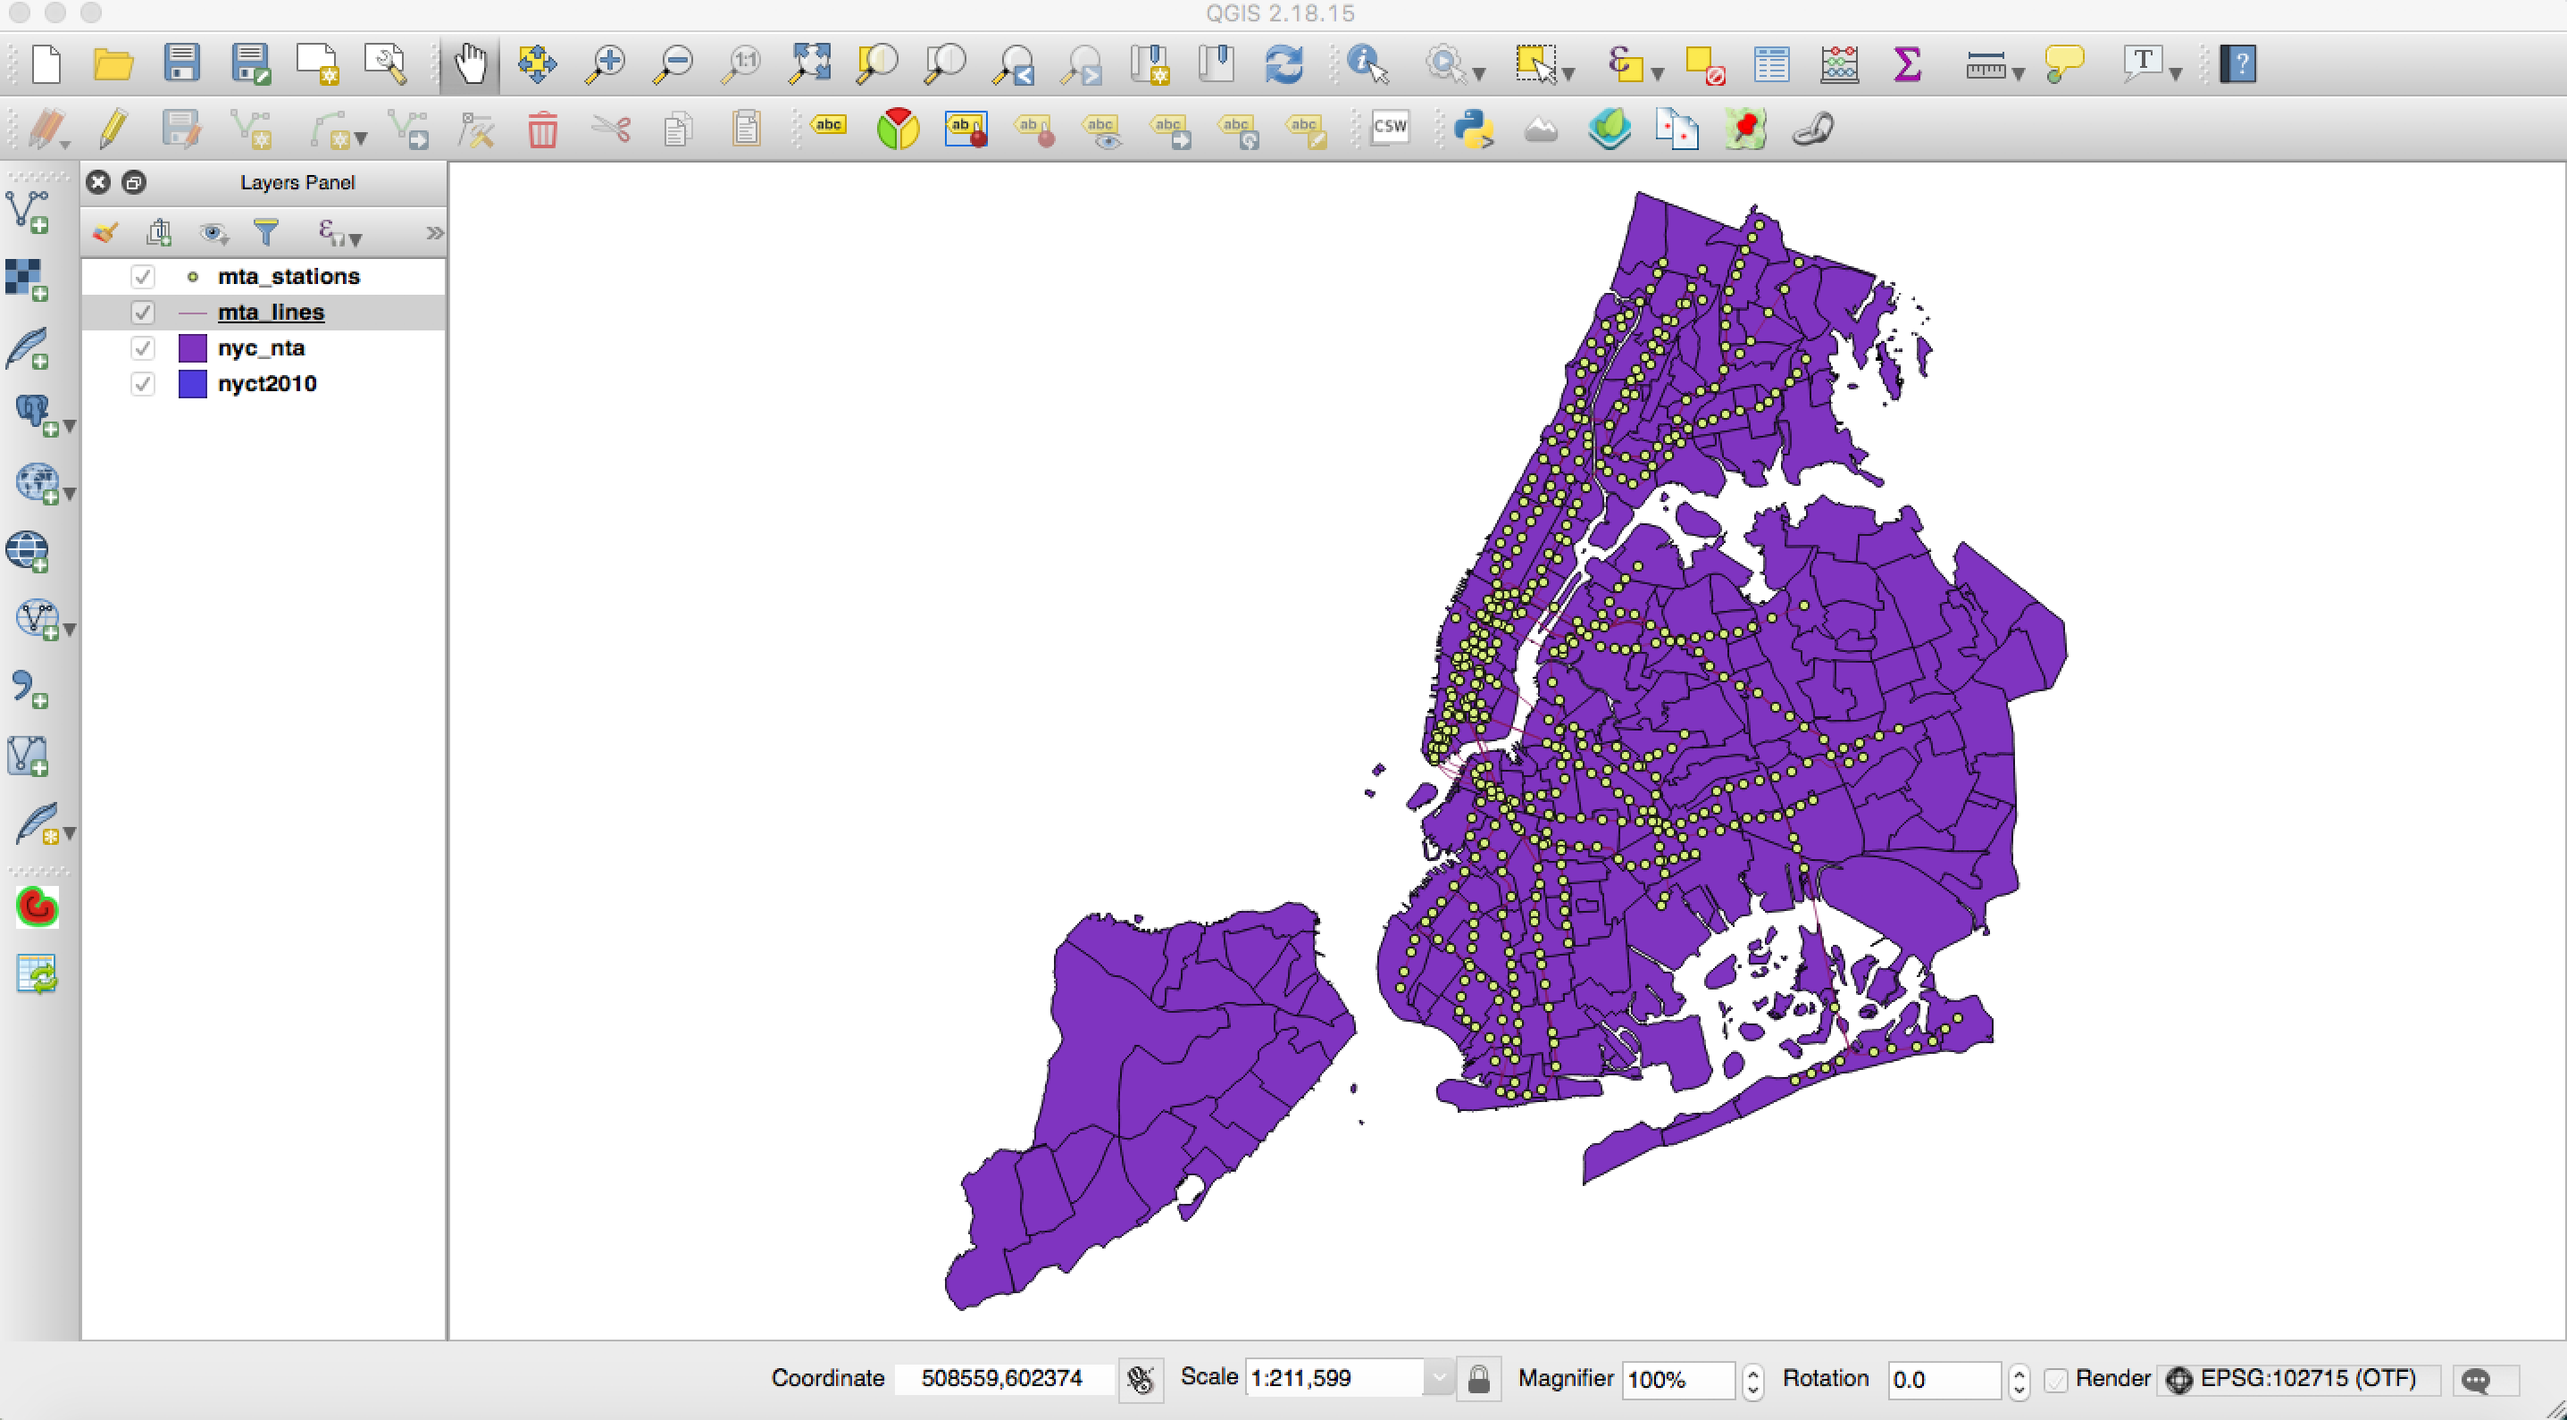
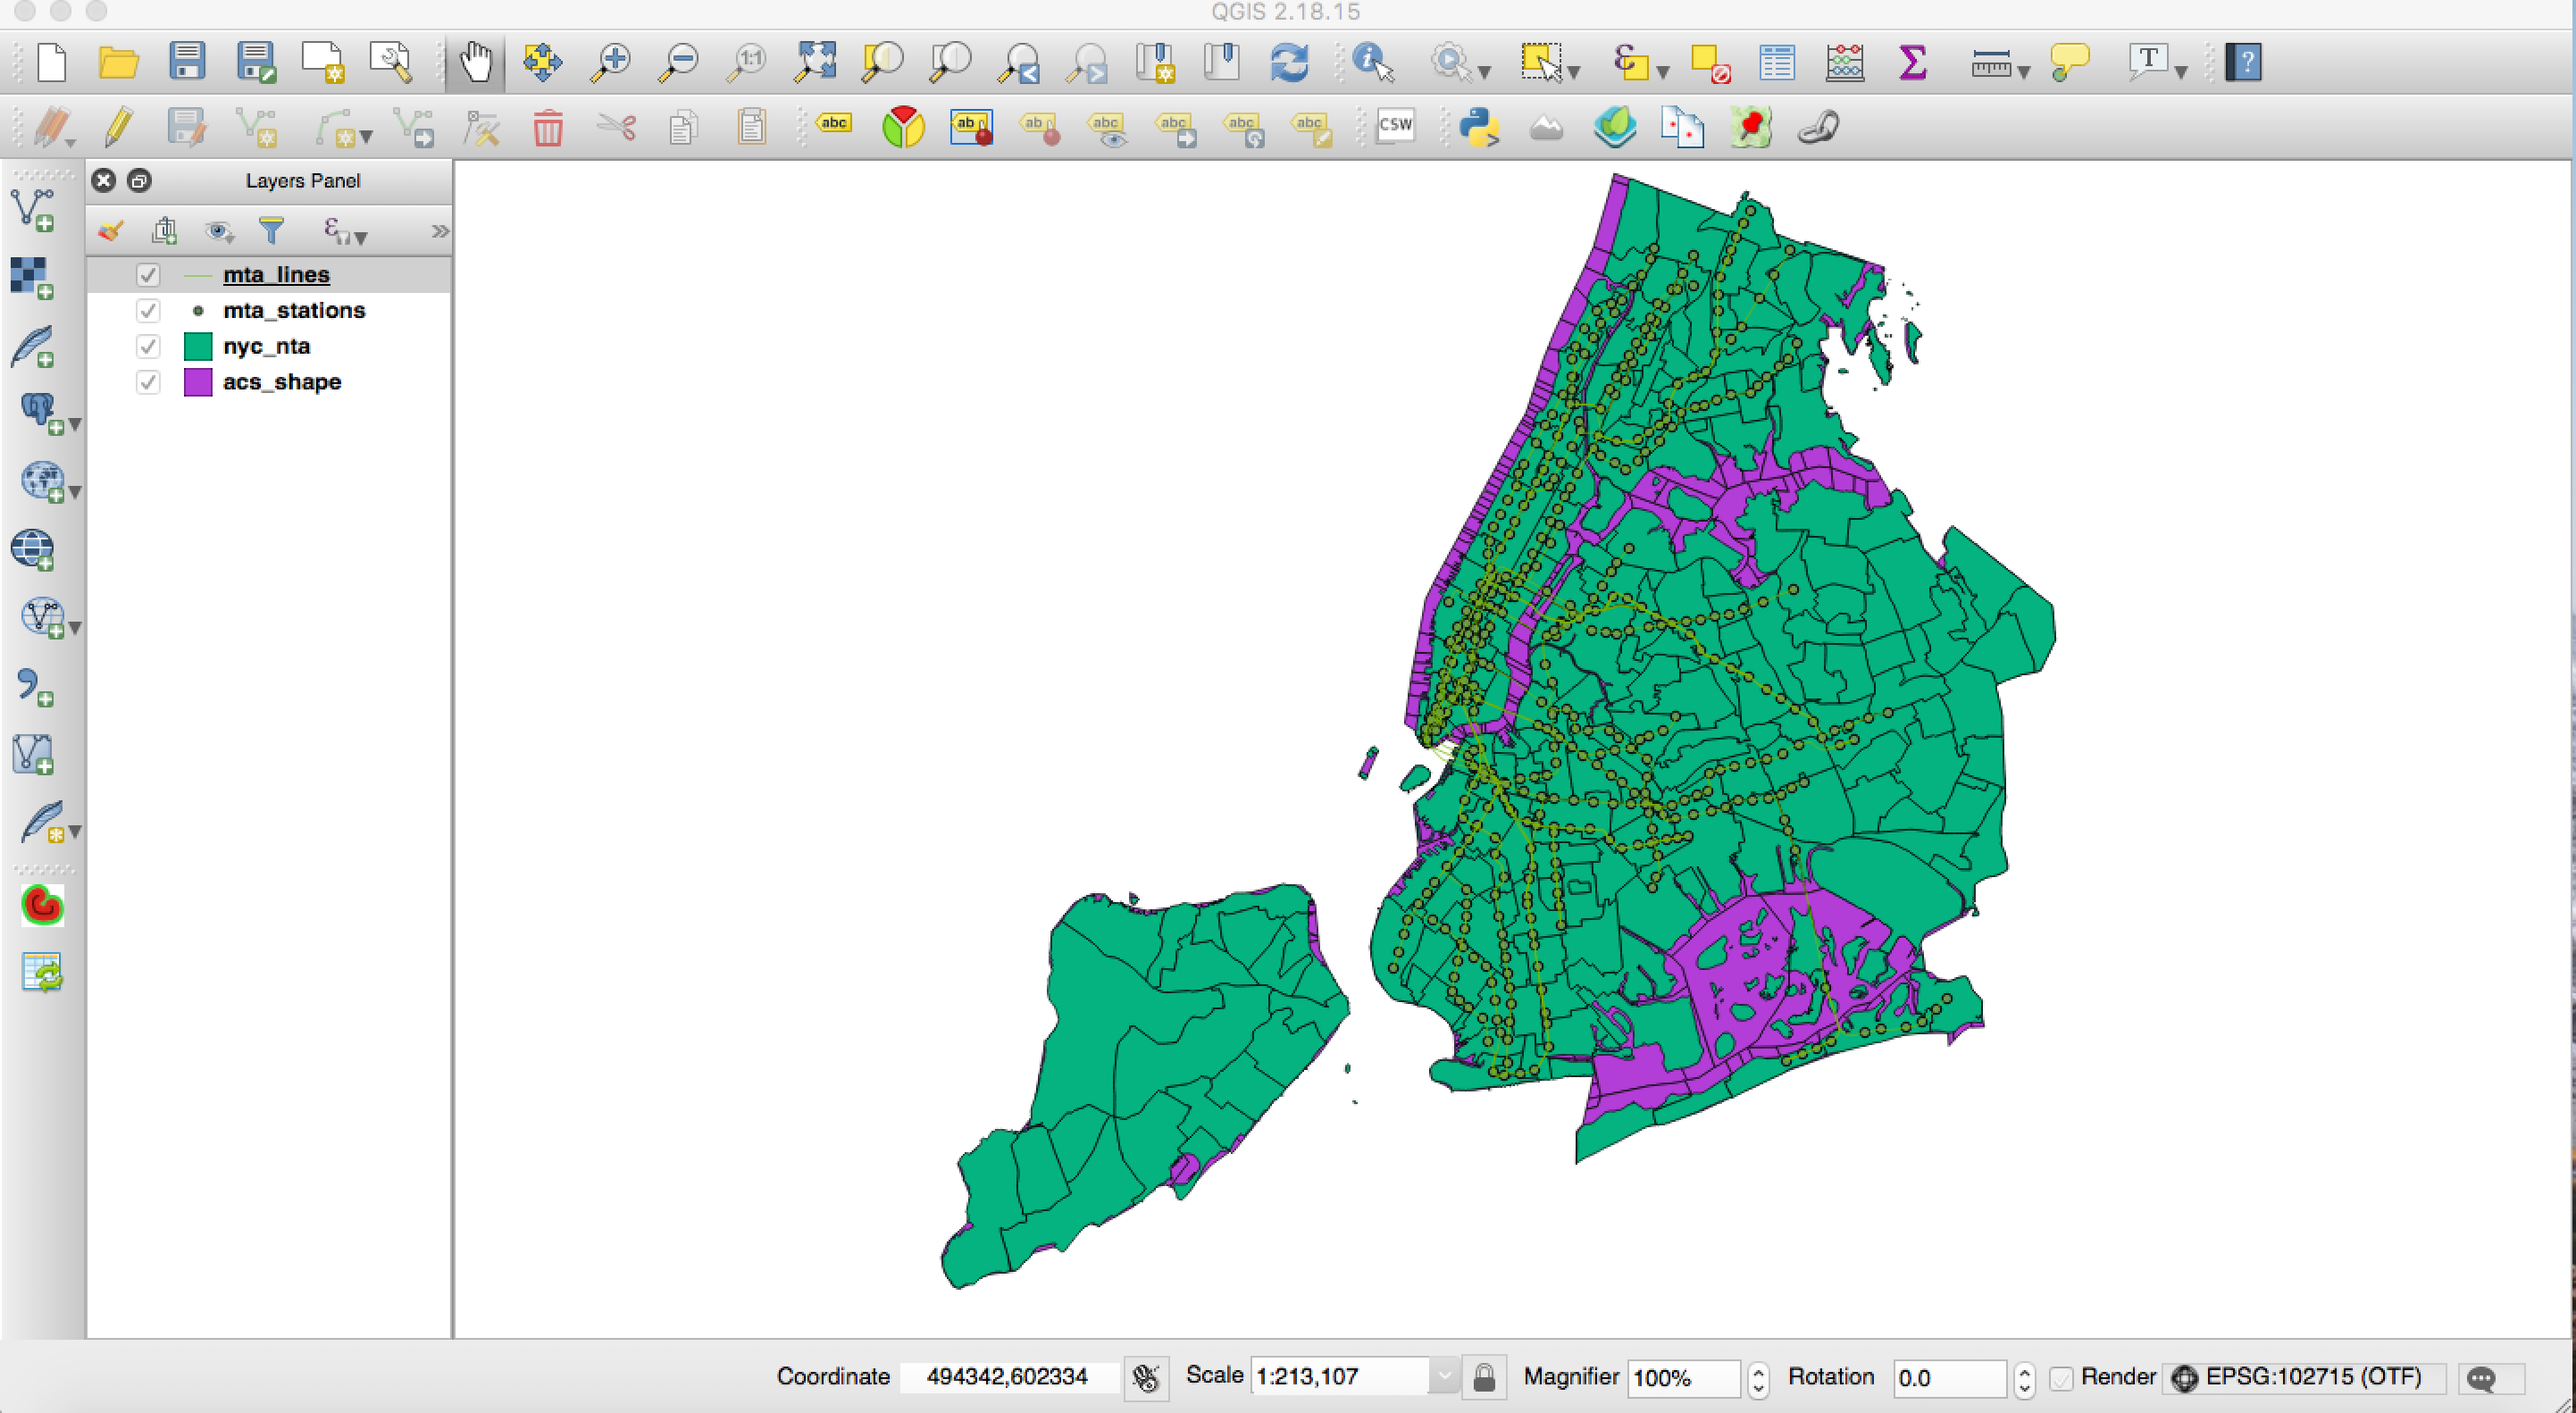
update

Changed region(s): [[0.0, 0.0, 1.0, 1.0]]

diff --git a/Guidelines/1_SettingUp.md b/Guidelines/1_SettingUp.md
@@ -53,7 +53,7 @@ In order to construct our map within QGIS we will need to add our data layers to
 
 ![vector](https://github.com/michellejm/Intro-QGIS-CUNY-FemSTEM/blob/master/Images/femstem01_01.png) 
 
-**Select** the `nyct2010.shp` file. A map should appear in the data window of QGIS (yours will likely be a different color)
+**Select** the `acs_shape.shp` file. A map should appear in the data window of QGIS (yours will likely be a different color)
 
 ![map](https://github.com/michellejm/Intro-QGIS-CUNY-FemSTEM/blob/master/Images/femstem01_02.png)
 
@@ -78,13 +78,42 @@ Notice that the number in the bottom right hand corner reflects the new CRS.
 
 Now we will add all of the other shapefiles. 
 
-Again, **click** on the `Add Vector Layer` button, and add the `nyc_nta.shp`,  `mta_stations`, and `mta_lines`.
+Again, **click** on the `Add Vector Layer` button, and add the 
+* `nyc_nta.shp`,  
+* `mta_stations`, and 
+* `mta_lines`.
 
-![vector](https://github.com/CenterForSpatialResearch/MappingForTheUrbanHumanities_2018/blob/master/Images/mappingdata01_02.png)
 
 Once you add all of the files, your map should look something like this. If all 4 layers appear in the Layers Panel, but you can't see the subway lines or the stations, rearrange the order by dragging and dropping them in the Layers Panel.
 
-![vector](https://github.com/CenterForSpatialResearch/MappingForTheUrbanHumanities_2018/blob/master/Images/mappingdata01_09.png)
+![map](https://github.com/michellejm/Intro-QGIS-CUNY-FemSTEM/blob/master/Images/femstem01_09.png)
+
+Now we want to add the population data. 
+
+Click on the `Add Delimited Text Layer` button, and make the following selections:
+* File Name: FemSTEM/Data/Tabular/nyc_population-by-tract_2013.csv
+* File format: CSV
+* Geometry definition: No geometry
+* `OK`
+
+![map](https://github.com/michellejm/Intro-QGIS-CUNY-FemSTEM/blob/master/Images/femstem01_10.png) 
+
+New
+
+
+
+
+
+
+
+
+
+
+
+
+
+
+
 
 
 
